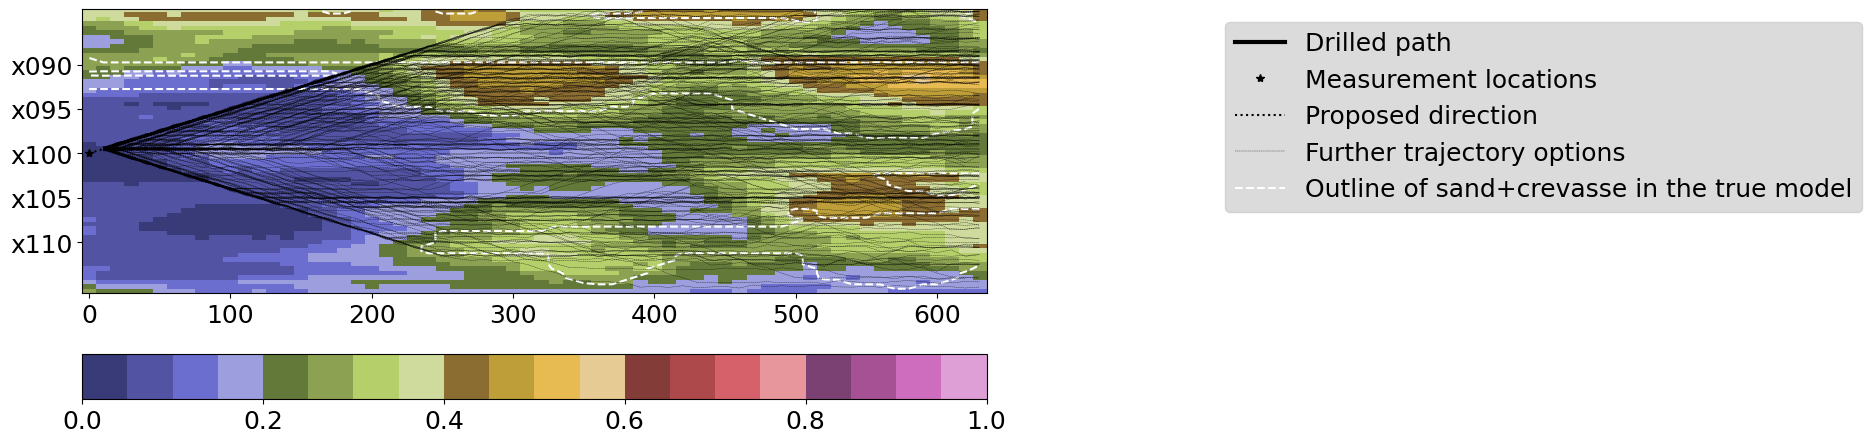
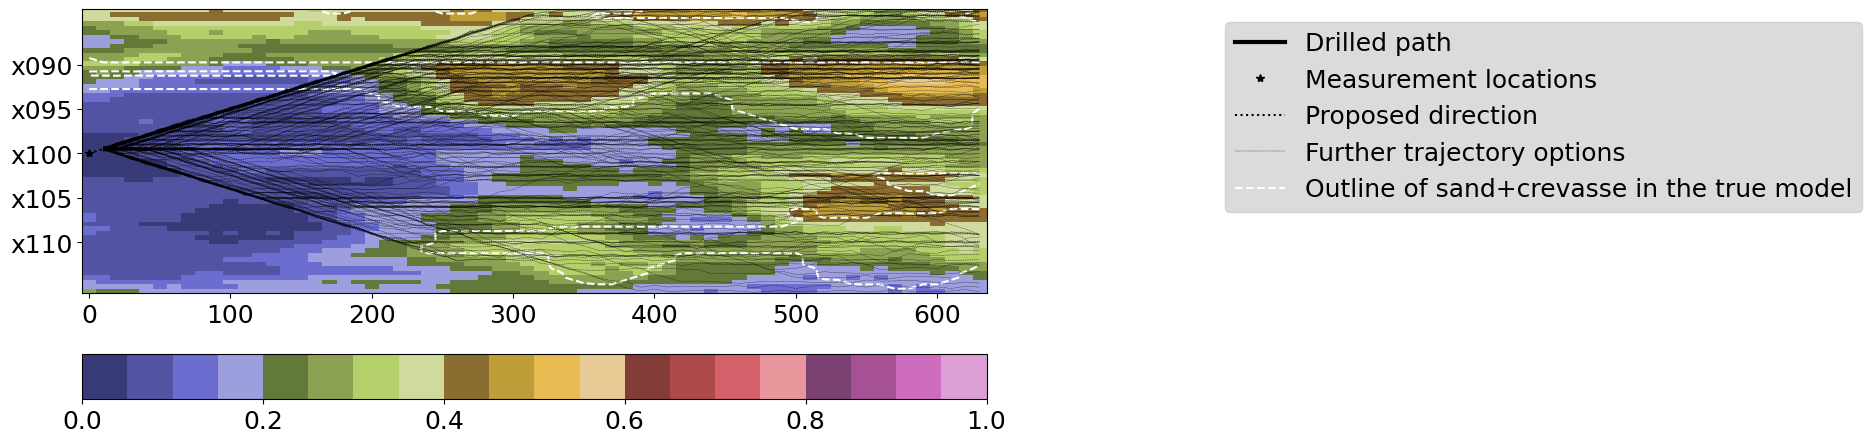
Bug-fix in plotting

Changed region(s): [[0.031, 0.0, 0.5267, 0.6749], [0.031, 0.5869, 0.062, 0.6456], [0.031, 0.0293, 0.062, 0.0587]]

diff --git a/plot_result.py b/plot_result.py
@@ -69,7 +69,7 @@ def main():
     # Use the 'viridis' colormap
     res_im = ax_res.imshow(true_resistivity_image, aspect='auto', cmap='summer', vmin=1, vmax=200)
     cbar = plt.colorbar(res_im, ax=ax_res)
-    overlay_step = 0
+    em_model_for_overlay_plotting_step = 18
     # plt.show()
 
     # todo load from the config file! @KriFos1
@@ -77,14 +77,17 @@ def main():
     labelled_index = 0
     origin_x = 0
     origin_y = 32
-    drilled_path = [np.array([origin_y, origin_x])]
+    # drilled_path = [np.array([origin_y, origin_x])]
+    drilled_path = []
     num_decission_points = 63
-    for i in range(num_decission_points):
+    for i in range(0, num_decission_points):
         # for i in range(1):
         # Load the decision points
         checkpoint_at_step = np.load(f'estimate_decission_{i}.npz')
         state_vectors = checkpoint_at_step['m']
-        position_at_step = checkpoint_at_step['pos']
+        start_position_at_step = checkpoint_at_step['pos']
+
+        drilled_path.append(start_position_at_step)
 
         # # todo remove test position
         # position_at_step = np.array([33, 4])
@@ -100,7 +103,7 @@ def main():
             [create_weighted_image(evaluate_earth_model(gan_evaluator, state_vectors[:, el])) for el in
              range(ne)])  # range(state.shape[1])])
 
-        next_optimal, _garbage_path = pathfinder().run(state_vectors, position_at_step)
+        next_optimal, _garbage_path = pathfinder().run(state_vectors, start_position_at_step)
 
         # creating the figure
         fig, ax = plt.subplots(figsize=(10, 5))
@@ -135,7 +138,7 @@ def main():
         ax.plot(path_cols, path_rows,
                 'k*', label='Measurement locations')
 
-        if i == overlay_step:
+        if i == em_model_for_overlay_plotting_step:
             ax_res.plot(path_cols, path_rows,
                     'k-', linewidth=3., label='Drilled path')
             ax_res.plot(path_cols, path_rows,
@@ -169,8 +172,8 @@ def main():
         if next_optimal[0] is not None:
 
             # visualizing the next decision
-            path_rows = [position_at_step[0], next_optimal[0]]
-            path_cols = [position_at_step[1], next_optimal[1]]
+            path_rows = [start_position_at_step[0], next_optimal[0]]
+            path_cols = [start_position_at_step[1], next_optimal[1]]
             ax.plot(path_cols, path_rows,
                     'k:', label='Proposed direction')
 
@@ -239,7 +242,7 @@ def main():
             saved_legend = True
 
 
-        drilled_path.append(checkpoint_at_step['pos'])# note that we compute another one during viosualization
+        # drilled_path.append(checkpoint_at_step['pos'])# note that we compute another one during viosualization
 
         # plt.show()
 
